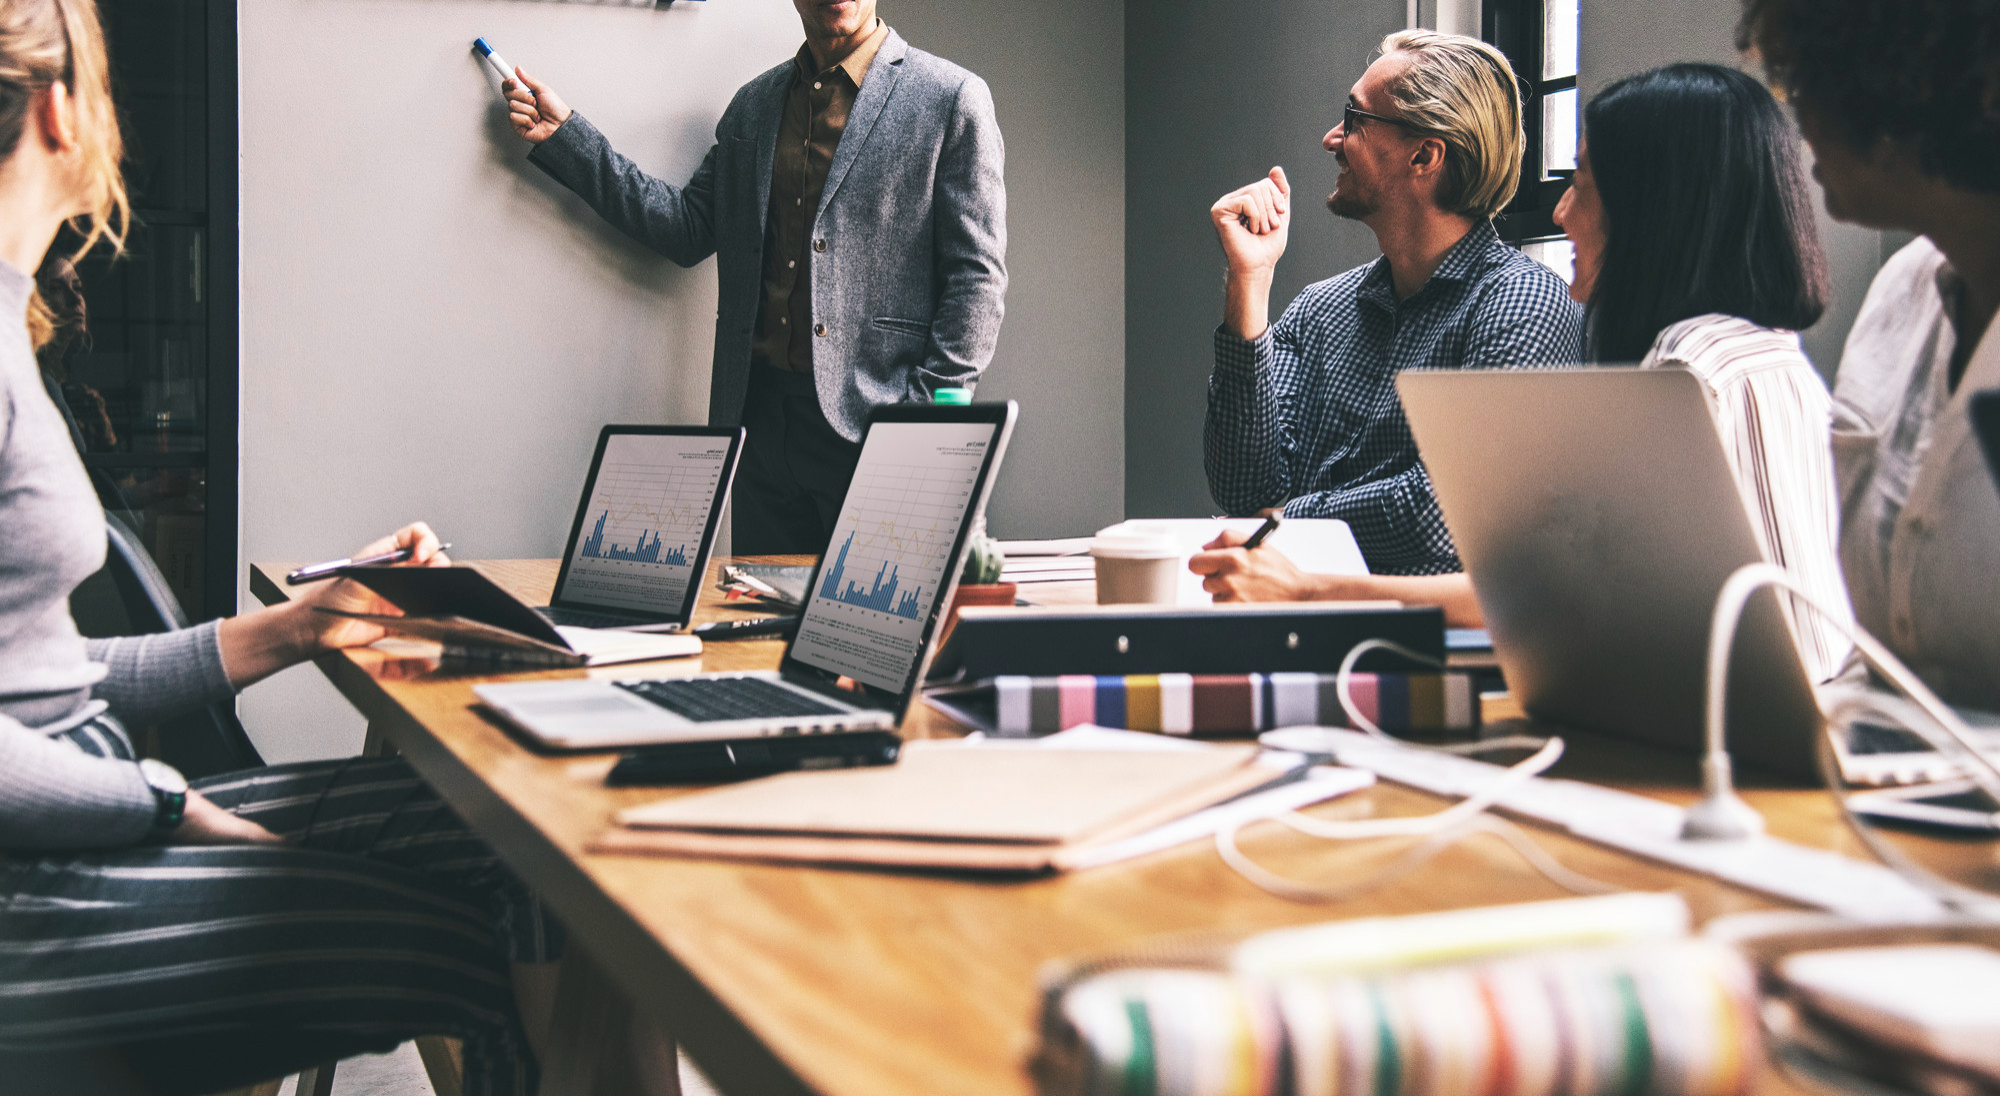
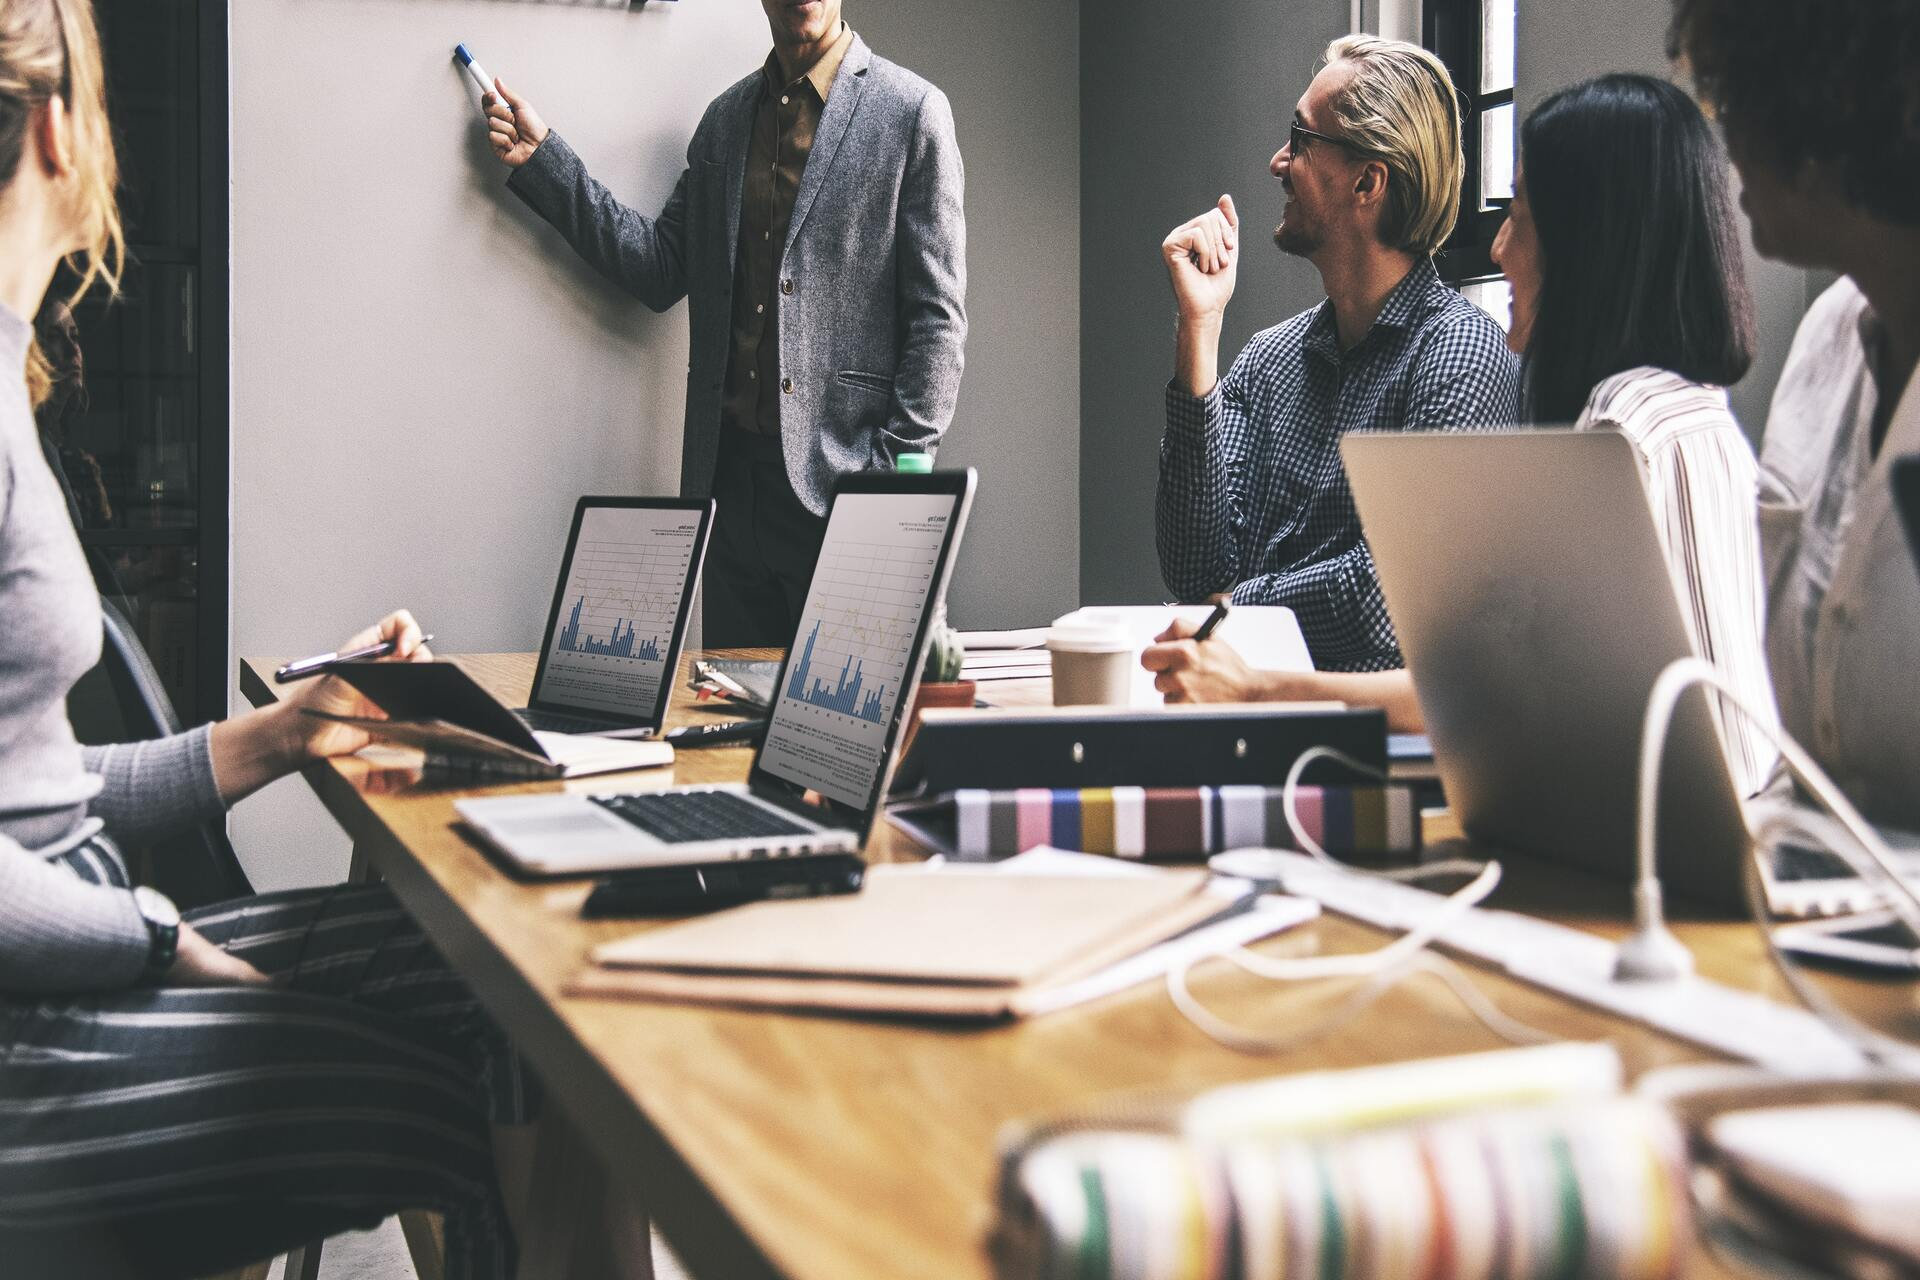
agregamos detalles en el slide

diff --git a/index.html b/index.html
@@ -1,29 +1,49 @@
 <!DOCTYPE html>
 <html lang="en">
+
 <head>
     <meta charset="UTF-8">
     <meta name="viewport" content="width=device-width, initial-scale=1.0">
     <title>Document</title>
-    <link rel="stylesheet" href="style/style.css">
     <link href="https://cdn.jsdelivr.net/npm/bootstrap@5.3.3/dist/css/bootstrap.min.css" rel="stylesheet" integrity="sha384-QWTKZyjpPEjISv5WaRU9OFeRpok6YctnYmDr5pNlyT2bRjXh0JMhjY6hW+ALEwIH" crossorigin="anonymous">
+    <script src="https://cdn.jsdelivr.net/npm/bootstrap@5.3.3/dist/js/bootstrap.bundle.min.js" integrity="sha384-YvpcrYf0tY3lHB60NNkmXc5s9fDVZLESaAA55NDzOxhy9GkcIdslK1eN7N6jIeHz" crossorigin="anonymous"></script>
+    <link rel="stylesheet" href="style/style.css">
 </head>
+
 <body>
 
-    <div id="carouselExampleSlidesOnly" class="carousel slide" data-bs-ride="carousel">
+    <div id="carouselExampleInterval" class="carousel slide" data-bs-ride="carousel">
         <div class="carousel-inner">
-          <div class="carousel-item active">
-            <img src="./assets/image/slide.jpg" class="d-block w-100" alt="Slide1">
-          </div>
-          <div class="carousel-item">
-            <img src="./assets/image/slide2.jpg" class="d-block w-100" alt="slide2">
-          </div>
-          <div class="carousel-item">
-            <img src="./assets/image/slide3.jpg" class="d-block w-100" alt="slide3">
-          </div>
+            <div class="carousel-item active d-item" data-bs-interval="50000">
+                <img src="./assets/image/slide1.jpg" class="d-block w-100 opacity" alt="slide1">
+                <div class="carousel-caption top-0 mt-4">
+                    <h1 class=""><Span class="enphasis">¡Bienvenidos</Span> a nuestra plataforma de servicios tecnológicos!</h1>
+                </div>
+            </div>
+            <div class="carousel-item" data-bs-interval="5000">
+                <img src="./assets/image/slide2.jpg" class="d-block w-100 opacity" alt="slide2">
+            </div>
+            <div class="carousel-item" data-bs-interval="5000">
+                <img src="./assets/image/slide3.jpg" class="d-block w-100 opacity" alt="slide3">
+            </div>
         </div>
-      </div>
-   
-    <sript src="https://cdn.jsdelivr.net/npm/bootstrap@5.3.3/dist/js/bootstrap.bundle.min.js" integrity="sha384-YvpcrYf0tY3lHB60NNkmXc5s9fDVZLESaAA55NDzOxhy9GkcIdslK1eN7N6jIeHz" crossorigin="anonymous"></script>
+        <button class="carousel-control-prev" type="button" data-bs-target="#carouselExampleInterval"
+            data-bs-slide="prev">
+            <span class="carousel-control-prev-icon" aria-hidden="true"></span>
+            <span class="visually-hidden">Previous</span>
+        </button>
+        <button class="carousel-control-next" type="button" data-bs-target="#carouselExampleInterval"
+            data-bs-slide="next">
+            <span class="carousel-control-next-icon" aria-hidden="true"></span>
+            <span class="visually-hidden">Next</span>
+        </button>
+    </div>
+
+
+    <script src="https://cdn.jsdelivr.net/npm/bootstrap@5.3.2/dist/js/bootstrap.min.js"
+        integrity="sha384-BBtl+eGJRgqQAUMxJ7pMwbEyER4l1g+O15P+16Ep7Q9Q+zqX6gSbd85u4mG4QzX+"
+        crossorigin="anonymous"></script>
     <script src="./js/script.js"></script>
 </body>
+
 </html>

diff --git a/style/style.css b/style/style.css
@@ -4,6 +4,7 @@
     --thirdcolor: #A6A6A6;
     --fourcolor: #F25D07;
     --fivercolor: #F6F6F6;
+    --redisafe: #F52F2C;
     --white: #fff;
     --black: #000;
 }
@@ -25,4 +26,28 @@ body{
     
 }
 
+.carousel-inner{
+    width: 100%;
+    max-height: 80rem;
+    margin: 0 auto;
+    background-color: #000;
+}
+
+.opacity{
+    opacity: 30%;
+}
+
+.textoSlide{
+    border-radius: 1rem;
+    color: var(--white);
+    position: absolute !important;
+}
+
+.tituloSlide{
+    color: var(--white);
+}
+
+.enphasis{
+    color: #F52F2C;
+}
 
